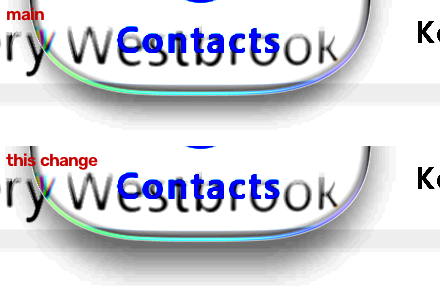
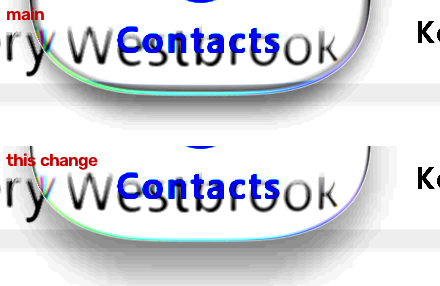
#104: the light held lens's shadow outside it only, lighter and lower; rows 640-684 3.43 levels rms
contactShadow 0.35 (was 0.45), contactShadowInside 0 (was 0.5), 9 dp blur 11 dp down (was 8 / 8.5
in this PR, 6 / 5 on main). Rows 644-648 now 255 as iOS; row 656 241 against 250. Found by
elimination (outline top-only and edgeShadow 0 changed neither lower-rim line). Reference test,
evidence and docs updated.

Changed region(s): [[0.0591, 0.5035, 0.8568, 0.9231]]

diff --git a/liquidglass/src/commonMain/kotlin/com/wexpa/liquidglass/GlassTabBar.kt b/liquidglass/src/commonMain/kotlin/com/wexpa/liquidglass/GlassTabBar.kt
@@ -1963,14 +1963,15 @@ data class GlassTabBarStyle(
             tapTransitFold = 0f,
             pill = recorded.pill.copy(tint = Color.Transparent, tintLift = -10f / 255f),
             lens = recorded.lens.copy(tint = Color.Transparent, rawShare = 0f, rawBlur = 0.dp, tintLift = 0f,
-                softDetail = 1f, heldEdgeTone = 243f / 255f, innerShadow = 0f, contactShadow = 0.45f, bodyBandScale = GlassCalmLensBand,
+                softDetail = 1f, heldEdgeTone = 243f / 255f, innerShadow = 0f, contactShadow = 0.35f, bodyBandScale = GlassCalmLensBand,
                 // No inner thickness line (#104): it drew a dark line along the lens's lower rim (row 648: 238, iOS 254;
                 // with none 248), and the outline (heldEdgeTone) already draws the top rim.
-                // Its shadow lower and longer than the previous light Calm values (6 dp blur, 5 dp down; #104 item 50).
-                // Measured: iOS's light held lens darkens rows ~660-680 below its rim (242-246; IMG_7049 39.41-39.87 s, held on
-                // Contacts); ours stopped by ~672. Authored: 8 dp of blur, 8.5 dp down, fitted to those frames; the replay then
-                // reads 242-248 there (rows 664-684: 2.2 levels rms, was 4.9).
-                contactShadowInside = 0.5f, contactShadowBlur = 8.dp, contactShadowOffset = 8.5.dp),
+                // Its shadow lower, lighter and outside the lens only, against the previous light Calm values (0.45, half of it
+                // inside, 6 dp blur, 5 dp down; #104 item 50). Measured: iOS's light held lens stays clear to its lower rim (rows
+                // 644-648: 255) and its shadow darkens gradually below it, deepest ~20 px down (247 at row 660, 242 at 672; IMG_7049
+                // 39.41-39.87 s, held on Contacts). Authored: 0.35, none inside, 9 dp of blur, 11 dp down, fitted to those
+                // frames; the replay then reads rows 640-684 at 3.43 levels rms (main 7.18).
+                contactShadowInside = 0f, contactShadowBlur = 9.dp, contactShadowOffset = 11.dp),
             tapTintFade = 1f, tapSelectedScale = 1.15f, tapOptics = 1f, tapOpticsFold = 1f,
         )
 

diff --git a/liquidglass/src/jvmTest/kotlin/com/wexpa/liquidglass/GlassPhoneMaterialReferenceTest.kt b/liquidglass/src/jvmTest/kotlin/com/wexpa/liquidglass/GlassPhoneMaterialReferenceTest.kt
@@ -75,10 +75,10 @@ class GlassPhoneMaterialReferenceTest {
         assertEquals(0f, light.lens.rawShare)
         assertEquals(243f / 255f, light.lens.heldEdgeTone, 1e-6f)
         assertEquals(0f, light.lens.innerShadow)
-        assertEquals(0.45f, light.lens.contactShadow)
-        assertEquals(0.5f, light.lens.contactShadowInside)
-        assertEquals(8.dp, light.lens.contactShadowBlur)
-        assertEquals(8.5.dp, light.lens.contactShadowOffset)
+        assertEquals(0.35f, light.lens.contactShadow)
+        assertEquals(0f, light.lens.contactShadowInside)
+        assertEquals(9.dp, light.lens.contactShadowBlur)
+        assertEquals(11.dp, light.lens.contactShadowOffset)
         // The light preset it replaced stays reachable.
         assertEquals(false, GlassTabBarStyle.CalmRecordedSpace(dark = false).touchLift)
     }

diff --git a/review/atlas/light-lens-shadow-2026-11-01/README.md b/review/atlas/light-lens-shadow-2026-11-01/README.md
@@ -1,34 +1,34 @@
-# Light held lens shadow (#104 item 50) — 1 November 2026
+# Light held lens: shadow and lower rim (#104) — 1 November 2026
 
-![Desktop GPU replay of the light Calm bar with the lens held on Contacts, levels 225-255 stretched: main's shadow below the lens is short and ends close under it; with this change it sits lower and runs longer, as iOS's does](lens-shadow.png)
+![Desktop GPU replay of the light Calm bar with the lens held on Contacts, levels 225-255 stretched: on main the lens's lower rim carries dark lines and its shadow is short and close; with this change the lower rim is clear and the shadow sits lower, lighter and longer, as iOS's does](lens-shadow.png)
 
 Our frames only: desktop JVM GPU replay (`:desktop:phoneReplay`, `calm-light`, IMG_7049's script from 36.0 s, the lens held on
-Contacts) at 3.64 s (39.64 s in the recording). Scene px 280-720 × 560-700, levels 225-255 stretched so that a shadow a few
-levels deep shows. Main is above; this change is below. iOS's frames are measured, not reproduced.
+Contacts) at 3.64 s (39.64 s in the recording). Scene px 280-720 × 560-700, levels 225-255 stretched so that a few levels show.
+Main is above; this change is below. iOS's frames are measured, not reproduced.
 
 ## Measured
 
 Luma down the lens's lower half and the shadow below it (x 427-433 and 527-533), mean of 39.41, 39.64 and 39.87 s:
 
-| row | 648 | 656 | 664 | 668 | 672 | 676 | 680 | 684 | rms 664-684 |
+| row | 644 | 648 | 656 | 660 | 664 | 672 | 680 | 684 | rms 640-684 |
 | :-- | --: | --: | --: | --: | --: | --: | --: | --: | --: |
-| iOS | 254 | 250 | 245 | 243 | 242 | 244 | 246 | 249 | |
-| main | 238 | 238 | 242 | 245 | 248 | 250 | 252 | 253 | 4.9 |
-| this change | 237 | 238 | 240 | 242 | 243 | 245 | 247 | 248 | 2.2 |
+| iOS | 255 | 254 | 250 | 247 | 245 | 242 | 246 | 249 | |
+| main | 250 | 238 | 238 | 239 | 242 | 248 | 252 | 253 | 7.18 |
+| this change | 255 | 255 | 241 | 241 | 243 | 245 | 247 | 248 | 3.43 |
+
+iOS's lens is clear to its lower rim and its shadow darkens gradually below it, deepest about 20 px down. Ours drew two dark
+lines at the rim (rows 648 and 656) and a short shadow close under it.
 
 ## The change (light Calm only)
 
-Light `Calm()`'s held lens casts its contact shadow 8.5 dp down with an 8 dp blur, was 5 dp and 6 dp. Fitted to the three
-frames above; no public API change; dark Calm unchanged.
+Light `Calm()`'s held lens:
+- draws no inner thickness line (`innerShadow` 0, was 0.08): it was the line at row 648;
+- casts its contact shadow outside the lens only (`contactShadowInside` 0, was 0.5), lighter (0.35, was 0.45), 11 dp down with
+  a 9 dp blur (was 5 dp and 6 dp).
 
-## Also: the inner thickness line
-
-Our lens drew two dark lines along its lower rim (rows 648 and 656: 238 / 238) where iOS's stays clear (254 / 250). The
-first is the inner thickness line (`innerShadow` 0.08): with none, row 648 reads 248 and rows 640-684 go from 7.18 to 5.71
-levels rms. Light `Calm()`'s lens now draws none; its top rim is the outline's (`heldEdgeTone`). Drawing the outline on the top
-rim only changed neither row, so the outline is not the cause.
+Found by elimination: drawing the outline (`heldEdgeTone`) on the top rim only, and removing the edge step (`edgeShadow`),
+changed neither line. The values are fitted to the three frames above; no public API change; dark Calm unchanged.
 
 ## Not changed
 
-Row 656 still reads 238 against iOS 250: a second line, most likely the edge step (`edgeShadow`), left for its own fit. Not
-yet checked on a device.
+Row 656 still reads 241 against iOS 250: our shadow begins a little darker right under the rim. Not yet checked on a device.

diff --git a/CHANGELOG.md b/CHANGELOG.md
@@ -6,8 +6,8 @@ A version heading means that version is published; anything above the newest one
 Flutter: `liquiglass` 1.0.0 is on pub.dev (<https://pub.dev/packages/liquiglass>), uploaded by hand on
 20 October; later tags publish it from the release workflow.
 
-- Tab bar (light Calm): the held lens's shadow sits lower and runs longer, as iOS's does (rows 664-684 below the lens:
-  2.2 levels rms against IMG_7049, was 4.9), and its lower rim loses the inner thickness line iOS does not draw (#104). [Evidence](review/atlas/light-lens-shadow-2026-11-01/README.md).
+- Tab bar (light Calm): the held lens is clear to its lower rim and its shadow sits lower, lighter and longer, as iOS's
+  (rows 640-684 below the lens: 3.43 levels rms against IMG_7049, was 7.18) (#104). [Evidence](review/atlas/light-lens-shadow-2026-11-01/README.md).
 - Tab bar (light Calm): the bar's top ~45 px read a few levels darker than its body, as iOS's do (IMG_7049: 240-241
   against 245), instead of evenly bright (0.85 levels rms down the bar, was 3.15). Light `Calm()`'s own bar only; no public
   API changes, and the search button and other styles stay even (#128).

diff --git a/docs/development-status.md b/docs/development-status.md
@@ -7,7 +7,8 @@ research remains available; this page identifies which later changes supersede i
 
 ## Main after 1.0 (24 October)
 
-- 1 November: the light held-lens shadow is 8.5 dp down with an 8 dp blur (was 5 and 6), as iOS's (#104).
+- 1 November: the light held lens is clear to its lower rim (no inner line) and its shadow is outside it only, 0.35, 11 dp
+  down with a 9 dp blur (was 0.45, half inside, 5 dp and 6 dp): 3.43 levels rms below it, was 7.18 (#104).
   [Evidence](https://github.com/shayann07/liquidglass/blob/main/review/atlas/light-lens-shadow-2026-11-01/README.md).
 - 1 November: the light Calm bar's top is shaded as iOS's is (240-241 over its top ~45 px, 245 below; 0.85 levels rms,
   was 3.15) (internal to light `Calm()`'s bar; no public API change) (#128). [Evidence](https://github.com/shayann07/liquidglass/blob/main/review/atlas/light-top-shade-2026-11-01/README.md).
